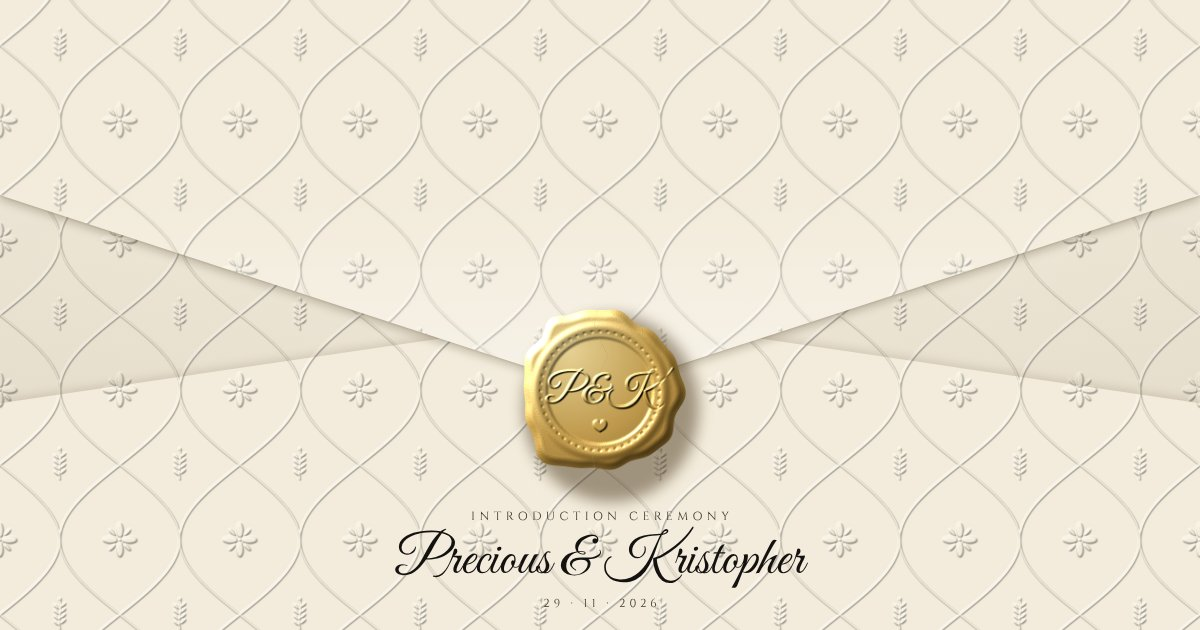
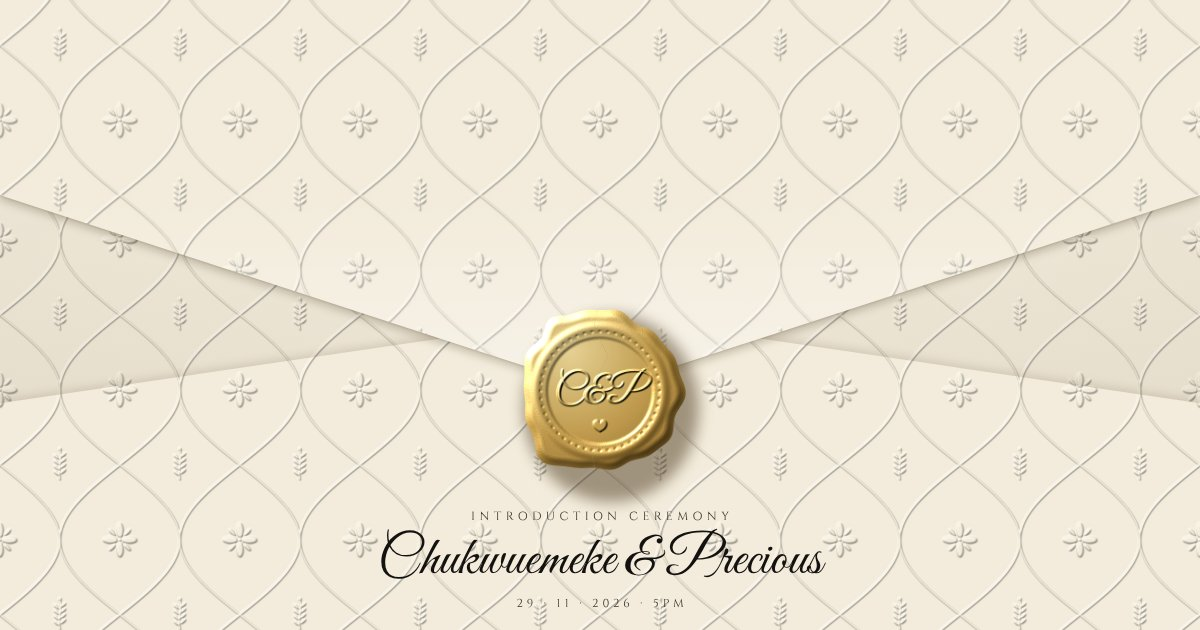
Change names to Chukwuemeke Okobah and Precious Ozigi with a C&P monogram
Claude-Session: https://claude.ai/code/session_01WVXCPjX5gg7wnVyMg4oeAd

Changed region(s): [[0.3083, 0.8444, 0.7092, 0.9651], [0.4317, 0.573, 0.555, 0.6635]]

diff --git a/index.html b/index.html
@@ -3,11 +3,11 @@
 <head>
 <meta charset="utf-8">
 <meta name="viewport" content="width=device-width, initial-scale=1, viewport-fit=cover">
-<title>Precious &amp; Kristopher</title>
+<title>Chukwuemeke &amp; Precious</title>
 <meta name="description" content="You have a special invitation… Tap the seal to open.">
 <meta name="theme-color" content="#e9e0cb">
 <meta property="og:type" content="website">
-<meta property="og:title" content="Precious &amp; Kristopher · Introduction Ceremony">
+<meta property="og:title" content="Chukwuemeke &amp; Precious · Introduction Ceremony">
 <meta property="og:description" content="You have a special invitation… Tap the seal to open. 29th November 2026">
 <meta property="og:url" content="https://precious-and-kristopher.vercel.app/">
 <meta property="og:image" content="https://precious-and-kristopher.vercel.app/assets/og-image.jpg">
@@ -38,7 +38,7 @@
 
     <div class="env-text">
       <p class="kick">INTRODUCTION CEREMONY</p>
-      <p class="names">Precious &amp; Kristopher</p>
+      <p class="names">Chukwuemeke &amp; Precious</p>
       <p class="when">29 · 11 · 2026 · 5PM</p>
       <p class="tap">Tap the seal to open</p>
     </div>
@@ -63,7 +63,7 @@
   <section class="sec hero">
     <svg class="crest rv" id="crest" viewBox="0 0 200 200" aria-hidden="true"></svg>
     <h1 class="eyebrow rv" style="--d:.15s">TWO HEARTS, ONE BEAUTIFUL BEGINNING…</h1>
-    <p class="display rv" style="--d:.35s">Precious<span class="amp">&amp;</span>Kristopher</p>
+    <p class="display rv" style="--d:.35s">Chukwuemeke<span class="amp">&amp;</span>Precious</p>
     <div class="rule rv" style="--d:.5s"><svg viewBox="0 0 24 24"><path d="M12 20s-7-4.4-7-9.6A3.9 3.9 0 0 1 12 8a3.9 3.9 0 0 1 7 2.4C19 15.6 12 20 12 20z" fill="url(#foil)"/></svg></div>
     <p class="script-lg rv" style="--d:.65s">I know you’re surprised!</p>
     <div class="scroll-cue rv" style="--d:1s"><span>SCROLL</span><i></i></div>
@@ -71,7 +71,7 @@
 
   <section class="sec">
     <p class="lead rv">We would love to warmly invite you to celebrate a very special moment with us at the introduction ceremony of</p>
-    <h2 class="names-caps rv" style="--d:.15s">PRECIOUS <span class="amp">&amp;</span> KRISTOPHER</h2>
+    <h2 class="names-caps rv" style="--d:.15s">CHUKWUEMEKE OKOBAH<span class="amp">&amp;</span>PRECIOUS OZIGI</h2>
     <div class="rule rv" style="--d:.25s"><svg viewBox="0 0 24 24"><circle cx="12" cy="12" r="3" fill="url(#foil)"/></svg></div>
     <p class="date rv" style="--d:.3s">29TH NOVEMBER 2026</p>
     <p class="time rv" style="--d:.32s">5:00 PM</p>
@@ -89,7 +89,7 @@
       </button>
       <div class="cal-menu" role="menu">
         <a role="menuitem" id="gcal" target="_blank" rel="noopener">Google Calendar</a>
-        <a role="menuitem" id="ical" download="precious-and-kristopher.ics">Apple or Outlook Calendar</a>
+        <a role="menuitem" id="ical" download="introduction-ceremony.ics">Apple or Outlook Calendar</a>
       </div>
     </div>
   </section>
@@ -117,7 +117,7 @@
     <svg class="crest small rv" id="crest2" viewBox="0 0 200 200" aria-hidden="true"></svg>
     <p class="lead plain rv">Your presence would make our day even more special, and we would be delighted to have you celebrate this beautiful beginning with us.</p>
     <p class="love rv" style="--d:.2s">With love,</p>
-    <p class="sign rv" style="--d:.3s">PRECIOUS &amp; KRISTOPHER</p>
+    <p class="sign rv" style="--d:.3s"><span class="nw">CHUKWUEMEKE</span> <span class="nw">&amp; PRECIOUS</span></p>
     <svg class="heart rv" style="--d:.4s" viewBox="0 0 24 24" aria-hidden="true"><path d="M12 21s-8-5-8-11a4.5 4.5 0 0 1 8-2.8A4.5 4.5 0 0 1 20 10c0 6-8 11-8 11z" fill="url(#foil)"/></svg>
     <div class="actions rv" style="--d:.5s">
       <button class="btn ghost" id="again" type="button">
@@ -126,7 +126,7 @@
       </button>
     </div>
   </section>
-  <p class="foot">P &amp; K · 29 · 11 · 2026</p>
+  <p class="foot">C &amp; P · 29 · 11 · 2026</p>
 </main>
 
 <button class="music muted" id="music" type="button" aria-label="Play music">

diff --git a/assets/style.css b/assets/style.css
@@ -47,7 +47,7 @@ canvas#fx{position:fixed;inset:0;z-index:70;pointer-events:none}
 .bottom-flap::after{content:"";position:absolute;inset:0;background:linear-gradient(180deg,rgba(255,255,255,.25),rgba(255,255,255,0) 30%)}
 .env-text{position:absolute;left:0;right:0;bottom:calc(7% + env(safe-area-inset-bottom));text-align:center;z-index:3;padding:0 20px}
 .env-text .kick{font-family:var(--caps);font-size:clamp(.62rem,2.6vw,.74rem);letter-spacing:.38em;padding-left:.38em;color:var(--ink-soft)}
-.env-text .names{font-family:var(--script);font-size:clamp(2.1rem,10vw,3rem);line-height:1.15;margin:6px 0 4px;color:var(--ink)}
+.env-text .names{font-family:var(--script);font-size:clamp(1.9rem,8.6vw,2.7rem);line-height:1.15;margin:6px 0 4px;color:var(--ink)}
 .env-text .when{font-family:var(--caps);font-size:clamp(.62rem,2.5vw,.72rem);letter-spacing:.34em;padding-left:.34em;color:var(--ink-soft)}
 .env-text .tap{margin-top:22px;font-family:var(--serif);font-style:italic;font-size:clamp(1.05rem,4.4vw,1.2rem);color:var(--ink-soft);
   display:inline-flex;align-items:center;gap:10px;animation:breathe 2.6s ease-in-out infinite}
@@ -95,7 +95,7 @@ canvas#fx{position:fixed;inset:0;z-index:70;pointer-events:none}
 
 .crest{width:150px;height:150px;margin-bottom:22px}
 .eyebrow{font-family:var(--caps);font-weight:500;font-size:clamp(.72rem,3vw,.86rem);letter-spacing:.3em;padding-left:.3em;line-height:1.9;color:var(--ink)}
-.display{font-family:var(--serif);font-weight:500;font-size:clamp(3.3rem,16vw,5.2rem);line-height:.95;letter-spacing:-.01em;color:var(--ink);margin:26px 0 0}
+.display{font-family:var(--serif);font-weight:500;font-size:clamp(2.7rem,13vw,4.6rem);line-height:.95;letter-spacing:-.01em;color:var(--ink);margin:26px 0 0}
 .display .amp{display:block;font-family:var(--script);font-weight:400;font-size:.62em;line-height:1.1;color:var(--gold);margin:4px 0}
 .rule{display:flex;align-items:center;justify-content:center;gap:16px;width:100%;max-width:340px;margin:26px auto}
 .rule::before,.rule::after{content:"";flex:1;height:1px;background:linear-gradient(90deg,rgba(176,138,70,0),var(--gold))}
@@ -176,3 +176,7 @@ canvas#fx{position:fixed;inset:0;z-index:70;pointer-events:none}
 .lead.plain{font-style:normal}
 .wash{position:fixed;inset:0;z-index:1;pointer-events:none;background:rgba(245,239,226,.62)}
 .time{font-family:var(--serif);font-style:italic;font-size:clamp(1.3rem,5.4vw,1.6rem);margin-top:6px;color:var(--ink)}
+
+.names-caps .amp{display:block;line-height:1.1;margin:2px 0}
+.names-caps{font-size:clamp(1.35rem,6.2vw,2.2rem)}
+.nw{white-space:nowrap}

diff --git a/assets/app.js b/assets/app.js
@@ -32,7 +32,7 @@
     }
     if (mono){
       const t = add('text', { x: c, y: c + 15, 'text-anchor': 'middle', 'font-family': 'Great Vibes, cursive', 'font-size': 46, fill: 'url(#foil)' });
-      t.textContent = 'P&K';
+      t.textContent = 'C&P';
     } else {
       add('path', { d: `M${c} ${c + 14}s-13-8-13-17a7 7 0 0 1 13-4 7 7 0 0 1 13 4c0 9-13 17-13 17z`, fill: 'url(#foil)' });
     }
@@ -168,9 +168,9 @@
 
   /* ---------- calendar ---------- */
   const place = 'No. 4 Joshua Madaki Close, Apo Zone E, Abuja';
-  const title = 'Precious & Kristopher · Introduction Ceremony';
+  const title = 'Chukwuemeke & Precious · Introduction Ceremony';
   $('#gcal').href = 'https://calendar.google.com/calendar/render?action=TEMPLATE&text=' + encodeURIComponent(title) +
-    '&dates=20261129T160000Z/20261129T190000Z&location=' + encodeURIComponent(place) + '&details=' + encodeURIComponent('With love, Precious & Kristopher');
+    '&dates=20261129T160000Z/20261129T190000Z&location=' + encodeURIComponent(place) + '&details=' + encodeURIComponent('With love, Chukwuemeke & Precious');
   const ics = ['BEGIN:VCALENDAR', 'VERSION:2.0', 'PRODID:-//PK//Invitation//EN', 'BEGIN:VEVENT', 'UID:pk-introduction-20261129',
     'DTSTAMP:20261112T000000Z', 'DTSTART:20261129T160000Z', 'DTEND:20261129T190000Z', 'SUMMARY:' + title,
     'LOCATION:' + place.replace(/,/g, '\\,'), 'END:VEVENT', 'END:VCALENDAR'].join('\r\n');
